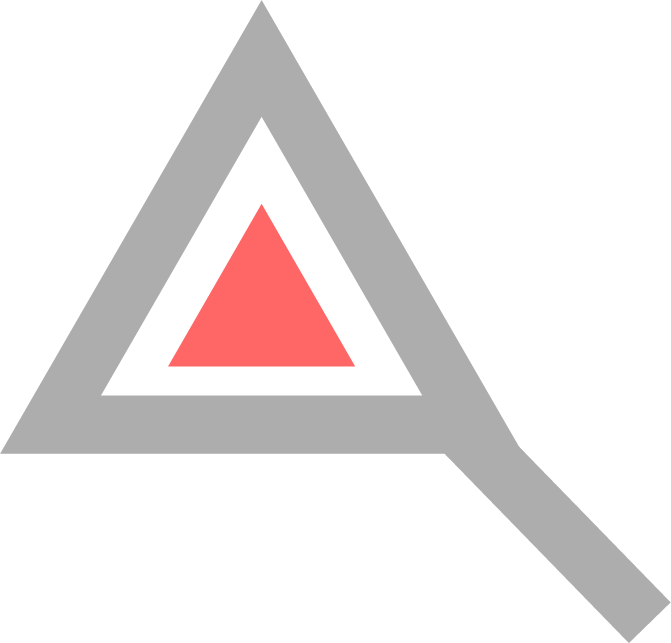
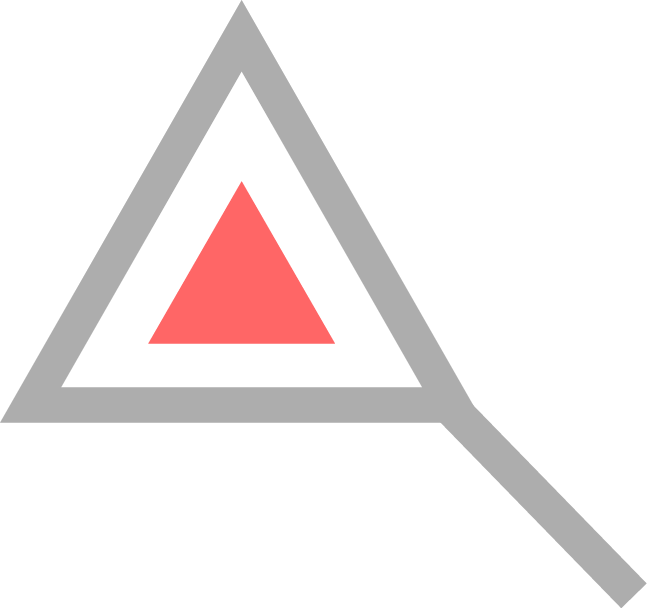
nuevos iconos y cambios de apariencia y funcionalidad

diff --git a/css/aviarStyle.css b/css/aviarStyle.css
@@ -6,6 +6,7 @@ html,
             height: 100%;
             width: 100%;
         }
+
         .esri-time-slider {
             cursor: default;
             min-width: 200px;
@@ -63,6 +64,12 @@ html,
             height: 400px;
             padding: 20px;
             width: 480px;
+        }
+
+        /* legend */
+
+        .esri-ui-corner .esri-expand .esri-widget--panel, .esri-ui-corner .esri-expand .esri-widget--panel-height-only, .esri-ui-corner .esri-component>.esri-widget--panel, .esri-ui-corner .esri-component.esri-widget--panel {
+            width: 140px;
         }
 
         #myButtonBrotes {
@@ -259,9 +266,7 @@ html,
             cursor: pointer;
             border: 1px solid #242424;
             width: 32px;
-            height: 32px;
-            margin-bottom: 380px;
-            box-shadow: 0 1px 2px rgba(0, 0, 0, 0.3)
+            height: 32px
         }
 
         .icon-brotes:hover {
@@ -289,9 +294,7 @@ html,
             cursor: pointer;
             border: 1px solid #242424;
             width: 32px;
-            height: 32px;
-            margin-bottom: 338px;
-            box-shadow: 0 1px 2px rgba(0, 0, 0, 0.3)
+            height: 32px
         }
 
         .icon-alertas:hover {
@@ -310,6 +313,15 @@ html,
             font-weight: 600;
         }
 
+        .esri-scale-bar__line--top {
+            bottom: -8px;
+            border-bottom: 2px solid #d1d1d1;
+        }
+
+        .esri-scale-bar__label-container--top {
+            bottom: -6px;
+        }
+
         /* ACTIVAR RUTAS */
         .icon-rutas {
             
@@ -319,9 +331,7 @@ html,
             border: 1px solid #242424;
             width: 32px;
             height: 32px;
-            margin-bottom: 380px;
-            margin-left: -120px;
-            box-shadow: 0 1px 2px rgba(0, 0, 0, 0.3)
+            margin-left: -120px
         }
 
         .icon-rutas:hover {
@@ -350,9 +360,7 @@ html,
             border: 1px solid #242424;
             width: 32px;
             height: 32px;
-            margin-bottom: 338px;
             margin-left: -42px;
-            box-shadow: 0 1px 2px rgba(0, 0, 0, 0.3)
         }
 
         .icon-migrations:hover {

diff --git a/index.html b/index.html
@@ -31,10 +31,10 @@
         <div id="statsDiv" class="esri-widget"></div>
     </div>
 
-    <div id="rutaDiv"><button type='buttonR' id="ruta" title="Rutas activadas por brotes" class="icon-rutas"><img  class="icon-rutas-Logo" src="img/ruta.png"/></button></div>
+    <div id="rutaDiv"><button type='buttonR' id="ruta" title="Rutas activadas por riesgo" class="icon-rutas"><img  class="icon-rutas-Logo" src="img/ruta.png"/></button></div>
     <div id="broteDiv"><button id="btnBrotes" title="Zoom to brotes" class="icon-brotes"> <img  class="icon-brotes-Logo" src="img/brote.png"/></button></div>
     <div id="alertasDiv"><button id="btnAlertas" title="Zoom to alertas" class="icon-alertas"><img  class="icon-brotes-Logo" src="img/alerta.png"/></button></div>
-    <div id="rutaDivMigrations"><button type='buttonM' id="migrations" title="Todos los movimientos de aves" class="icon-migrations"><img  class="icon-rutas-Logo" src="img/migrations.png"/></button></div>
+    <div id="rutaDivMigrations"><button type='buttonM' id="migrations" title="Todas las rutas" class="icon-migrations"><img  class="icon-rutas-Logo" src="img/migrations.png"/></button></div>
 
     <button id="myButtonAlerta" onclick="ShowHideTimeSliderAlertas()"><i class="esri-icon-non-visible"></i></button>
     <button id="myButtonBrotes" onclick="ShowHideTimeSliderBrotes()"><i class="esri-icon-non-visible"></i></button>

diff --git a/js/aviarScript.js b/js/aviarScript.js
@@ -255,11 +255,12 @@ require([
                 {
                     type: "color",
                     field: "riskLevel",
+                    label: "Nivel de riesgo",
                     stops: [
                         {
                             value: 0,
                             color: [255, 255, 255, 0.0],
-                            label: "1"
+                            label: "0"
                         }, {
                             value: 1,
                             color: [255, 150, 150, 0.7],
@@ -373,7 +374,7 @@ require([
         url:
             "https://raw.githubusercontent.com/influenzaAviar/applicacionWeb/main/GeoJSON/rutas.geojson",
         copyright: "Influenza Aviar",
-        title: "Rutas migratorias",
+        title: "Rutas activadas por riesgo",
         timeInfo: {
             interval: {
                 unit: "days",
@@ -437,7 +438,7 @@ require([
         url:
             "https://raw.githubusercontent.com/influenzaAviar/applicacionWeb/main/GeoJSON/migrations.geojson",
         copyright: "Influenza Aviar",
-        title: "migrations",
+        title: "Todas las rutas",
         timeInfo: {
             interval: {
                 unit: "days",
